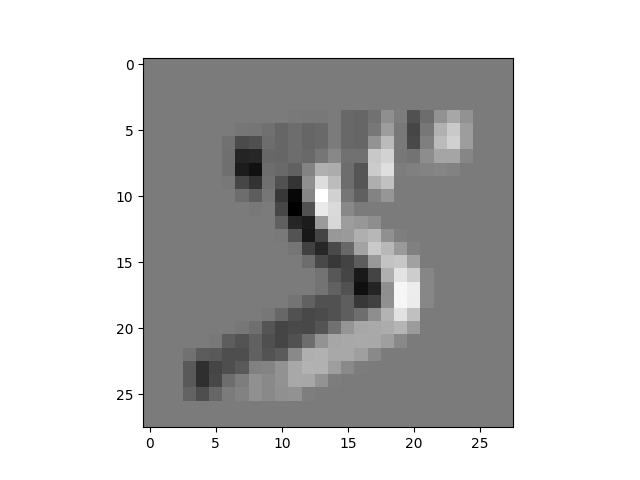
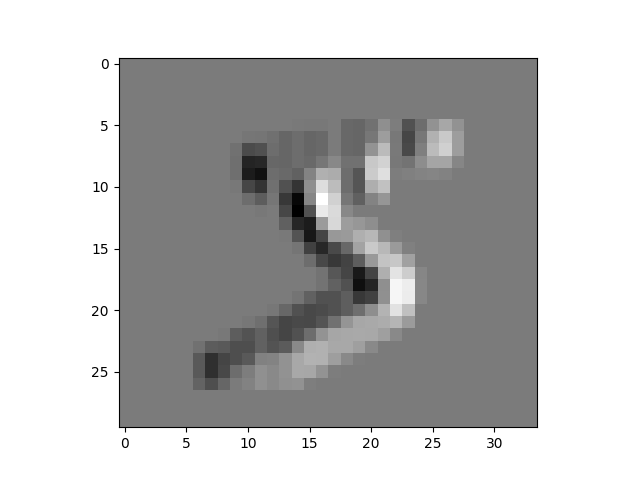
adding task 2 for convolutions and pooling project

diff --git a/math/convolutions_and_pooling/2-convolve_grayscale_padding.py b/math/convolutions_and_pooling/2-convolve_grayscale_padding.py
@@ -1,0 +1,25 @@
+#!/usr/bin/env python3
+"""Task 2 Convolutions and Pooling"""
+import numpy as np
+
+
+def convolve_grayscale_padding(images, kernel, padding):
+    """Performs a convolution on grayscale images with custom padding"""
+    m = images.shape[0]
+    k1 = kernel.shape[0]
+    k2 = kernel.shape[1]
+    p1 = padding[0]
+    p2 = padding[1]
+    new_dimX = images.shape[1] - k1 + 1 + 2 * p1
+    new_dimY = images.shape[2] - k2 + 1 + 2 * p2
+
+    images = np.pad(images, ((0, 0), (p1, p1), (p2, p2)), mode="constant")
+
+    new_image = np.zeros((m, new_dimX, new_dimY))
+
+    for j in range(new_image.shape[1]):
+        for k in range(new_image.shape[2]):
+            new_value = np.sum(images[:, j:j+k1, k:k+k2] * kernel, axis=(1, 2))
+            new_image[:, j, k] = new_value
+
+    return new_image

diff --git a/math/convolutions_and_pooling/2-main.py b/math/convolutions_and_pooling/2-main.py
@@ -2,7 +2,7 @@
 
 import matplotlib.pyplot as plt
 import numpy as np
-convolve_grayscale_same = __import__('1-convolve_grayscale_same').convolve_grayscale_same
+convolve_grayscale_padding = __import__('2-convolve_grayscale_padding').convolve_grayscale_padding
 
 
 if __name__ == '__main__':
@@ -11,10 +11,10 @@ if __name__ == '__main__':
     images = dataset['X_train']
     print(images.shape)
     kernel = np.array([[1 ,0, -1], [1, 0, -1], [1, 0, -1]])
-    images_conv = convolve_grayscale_same(images, kernel)
+    images_conv = convolve_grayscale_padding(images, kernel, (2, 4))
     print(images_conv.shape)
 
     plt.imshow(images[0], cmap='gray')
-    plt.savefig("1-normal.png")
+    plt.savefig("2-normal.png")
     plt.imshow(images_conv[0], cmap='gray')
     plt.savefig("2-alter.png")
